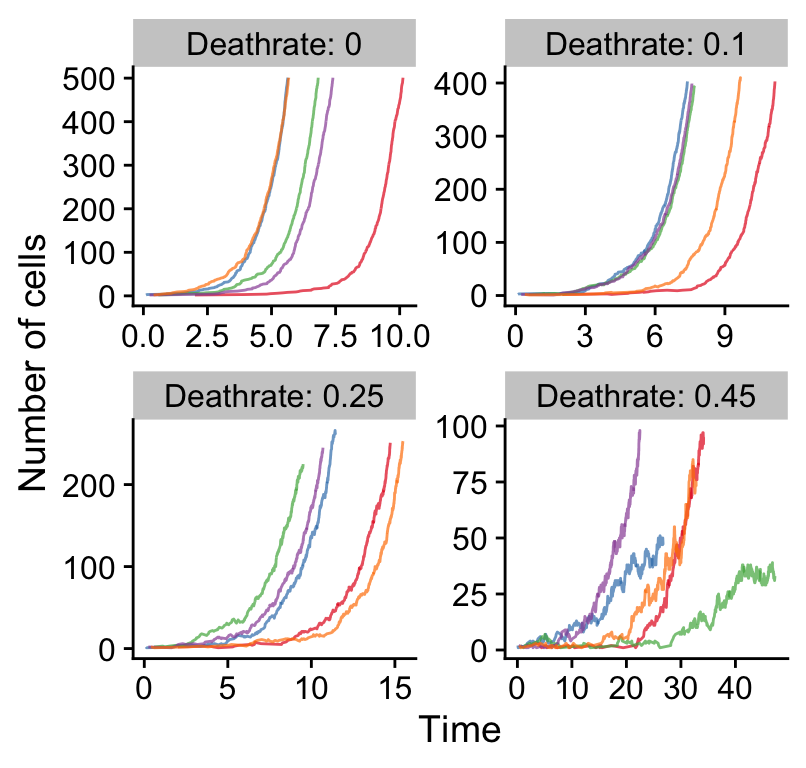
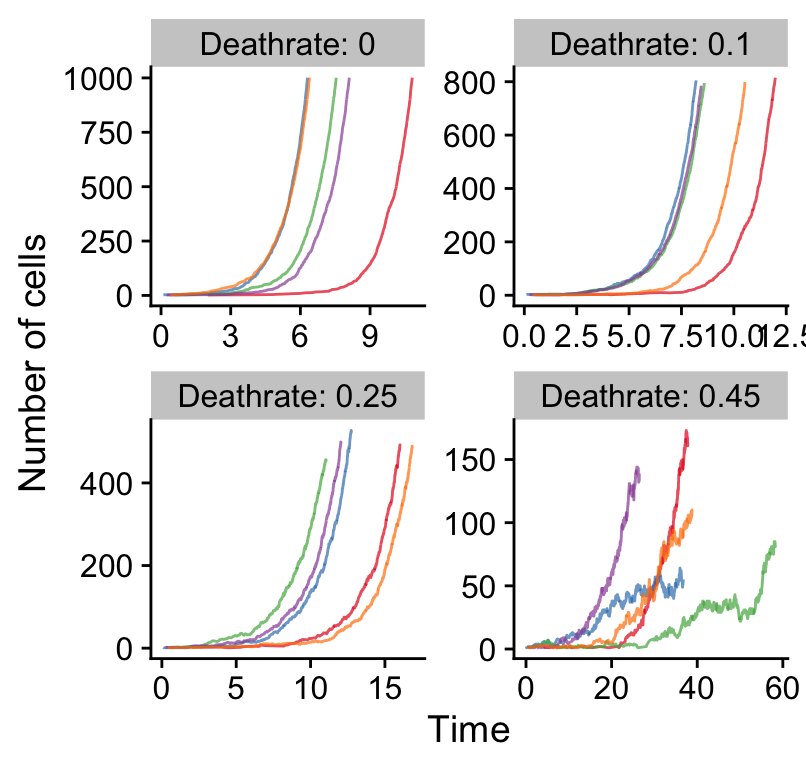
Updated vignettes.

diff --git a/docs/articles/time_series.html b/docs/articles/time_series.html
@@ -110,50 +110,59 @@
 <a class="sourceLine" id="cb1-19" data-line-number="19"><span class="co">#&gt;     intersect, setdiff, setequal, union</span></a>
 <a class="sourceLine" id="cb1-20" data-line-number="20"><span class="kw"><a href="https://ggplot2.tidyverse.org/reference/theme_get.html">theme_set</a></span>(<span class="kw"><a href="https://rdrr.io/pkg/cowplot/man/theme_cowplot.html">theme_cowplot</a></span>())</a></code></pre></div>
 <div class="sourceCode" id="cb2"><pre class="sourceCode r"><code class="sourceCode r"><a class="sourceLine" id="cb2-1" data-line-number="1"></a>
-<a class="sourceLine" id="cb2-2" data-line-number="2"><span class="co"># </span></a>
-<a class="sourceLine" id="cb2-3" data-line-number="3">n_reactions =<span class="st"> </span><span class="dv">1</span><span class="op">:</span><span class="dv">500</span></a>
-<a class="sourceLine" id="cb2-4" data-line-number="4">seeds =<span class="st"> </span><span class="dv">1</span><span class="op">:</span><span class="dv">5</span></a>
-<a class="sourceLine" id="cb2-5" data-line-number="5">deathrates =<span class="st"> </span><span class="kw"><a href="https://rdrr.io/r/base/c.html">c</a></span>(<span class="dv">0</span>, <span class="fl">0.1</span>, <span class="fl">0.25</span>, <span class="fl">0.45</span>)</a>
-<a class="sourceLine" id="cb2-6" data-line-number="6"> </a>
-<a class="sourceLine" id="cb2-7" data-line-number="7">params =<span class="kw"><a href="https://rdrr.io/r/base/list.html">list</a></span>(<span class="dt">birthrates=</span><span class="dv">1</span>, <span class="co"># neutral tumour</span></a>
-<a class="sourceLine" id="cb2-8" data-line-number="8">             <span class="dt">clone_start_times=</span><span class="dv">0</span>, </a>
-<a class="sourceLine" id="cb2-9" data-line-number="9">             <span class="dt">mutation_rate=</span><span class="dv">0</span>, </a>
-<a class="sourceLine" id="cb2-10" data-line-number="10">             <span class="dt">fathers=</span><span class="dv">0</span>)</a>
-<a class="sourceLine" id="cb2-11" data-line-number="11"></a>
-<a class="sourceLine" id="cb2-12" data-line-number="12"></a>
-<a class="sourceLine" id="cb2-13" data-line-number="13"><span class="co"># create all simulations:</span></a>
-<a class="sourceLine" id="cb2-14" data-line-number="14">all_results =<span class="st"> </span><span class="ot">NULL</span></a>
+<a class="sourceLine" id="cb2-2" data-line-number="2"><span class="co"># fixed parameters, a neutral tumour:</span></a>
+<a class="sourceLine" id="cb2-3" data-line-number="3">fixed_clone_params =<span class="st"> </span><span class="kw"><a href="https://rdrr.io/r/base/data.frame.html">data.frame</a></span>(</a>
+<a class="sourceLine" id="cb2-4" data-line-number="4">  <span class="dt">birthrate =</span> <span class="dv">1</span>,</a>
+<a class="sourceLine" id="cb2-5" data-line-number="5">  <span class="dt">mutationrate =</span> <span class="dv">0</span>,</a>
+<a class="sourceLine" id="cb2-6" data-line-number="6">  <span class="dt">start_time =</span> <span class="dv">0</span>,</a>
+<a class="sourceLine" id="cb2-7" data-line-number="7">  <span class="dt">father =</span> <span class="dv">0</span></a>
+<a class="sourceLine" id="cb2-8" data-line-number="8">)</a>
+<a class="sourceLine" id="cb2-9" data-line-number="9"></a>
+<a class="sourceLine" id="cb2-10" data-line-number="10"><span class="co"># varied parameters:</span></a>
+<a class="sourceLine" id="cb2-11" data-line-number="11">n_reactions =<span class="st"> </span><span class="dv">1</span><span class="op">:</span><span class="dv">1000</span></a>
+<a class="sourceLine" id="cb2-12" data-line-number="12">seeds =<span class="st"> </span><span class="dv">1</span><span class="op">:</span><span class="dv">5</span></a>
+<a class="sourceLine" id="cb2-13" data-line-number="13">deathrates =<span class="st"> </span><span class="kw"><a href="https://rdrr.io/r/base/c.html">c</a></span>(<span class="dv">0</span>, <span class="fl">0.1</span>, <span class="fl">0.25</span>, <span class="fl">0.45</span>)</a>
+<a class="sourceLine" id="cb2-14" data-line-number="14"> </a>
 <a class="sourceLine" id="cb2-15" data-line-number="15"></a>
-<a class="sourceLine" id="cb2-16" data-line-number="16"><span class="cf">for</span> (dr <span class="cf">in</span> deathrates) {</a>
-<a class="sourceLine" id="cb2-17" data-line-number="17">  <span class="cf">for</span> (n <span class="cf">in</span> n_reactions) {</a>
-<a class="sourceLine" id="cb2-18" data-line-number="18">    <span class="cf">for</span> (s <span class="cf">in</span> seeds) {</a>
-<a class="sourceLine" id="cb2-19" data-line-number="19"></a>
-<a class="sourceLine" id="cb2-20" data-line-number="20">      this_params =<span class="st"> </span><span class="kw"><a href="https://rdrr.io/r/base/c.html">c</a></span>(params, <span class="dt">simulation_end_time=</span>n, <span class="dt">seed=</span>s, <span class="dt">deathrates=</span>dr)</a>
-<a class="sourceLine" id="cb2-21" data-line-number="21">      this_simulation =<span class="st"> </span><span class="kw"><a href="https://rdrr.io/r/base/do.call.html">do.call</a></span>(simulateTumour, this_params)</a>
-<a class="sourceLine" id="cb2-22" data-line-number="22"></a>
-<a class="sourceLine" id="cb2-23" data-line-number="23">      result_this_simulation =</a>
-<a class="sourceLine" id="cb2-24" data-line-number="24"><span class="st">       </span><span class="kw"><a href="https://rdrr.io/r/base/data.frame.html">data.frame</a></span>(</a>
-<a class="sourceLine" id="cb2-25" data-line-number="25">         <span class="dt">reactions=</span>this_simulation<span class="op">$</span>simulation_data[<span class="st">"reactions"</span>],</a>
-<a class="sourceLine" id="cb2-26" data-line-number="26">          <span class="dt">t=</span>this_simulation<span class="op">$</span>simulation_data[<span class="st">"time"</span>],</a>
-<a class="sourceLine" id="cb2-27" data-line-number="27">          <span class="dt">cells=</span><span class="kw"><a href="https://rdrr.io/r/base/sum.html">sum</a></span>(this_simulation<span class="op">$</span>cell_numbers),</a>
-<a class="sourceLine" id="cb2-28" data-line-number="28">          <span class="dt">seed=</span>s,</a>
-<a class="sourceLine" id="cb2-29" data-line-number="29">          <span class="dt">dr=</span>dr</a>
-<a class="sourceLine" id="cb2-30" data-line-number="30">      )</a>
-<a class="sourceLine" id="cb2-31" data-line-number="31"></a>
-<a class="sourceLine" id="cb2-32" data-line-number="32">      all_results =<span class="st"> </span><span class="kw"><a href="https://rdrr.io/r/base/cbind.html">rbind</a></span>(all_results, result_this_simulation)</a>
-<a class="sourceLine" id="cb2-33" data-line-number="33">    }</a>
-<a class="sourceLine" id="cb2-34" data-line-number="34">  }</a>
-<a class="sourceLine" id="cb2-35" data-line-number="35">}</a>
-<a class="sourceLine" id="cb2-36" data-line-number="36"></a>
-<a class="sourceLine" id="cb2-37" data-line-number="37"></a>
-<a class="sourceLine" id="cb2-38" data-line-number="38">all_results <span class="op">%&gt;%</span><span class="st"> </span></a>
-<a class="sourceLine" id="cb2-39" data-line-number="39"><span class="st">  </span><span class="kw"><a href="https://ggplot2.tidyverse.org/reference/ggplot.html">ggplot</a></span>(<span class="kw"><a href="https://ggplot2.tidyverse.org/reference/aes.html">aes</a></span>(<span class="dt">x=</span>t, <span class="dt">y=</span>cells, <span class="dt">group=</span>seed, <span class="dt">color=</span><span class="kw"><a href="https://rdrr.io/r/base/character.html">as.character</a></span>(seed))) <span class="op">+</span><span class="st"> </span></a>
-<a class="sourceLine" id="cb2-40" data-line-number="40"><span class="st">    </span><span class="kw"><a href="https://ggplot2.tidyverse.org/reference/geom_path.html">geom_line</a></span>(<span class="dt">alpha=</span><span class="fl">0.7</span>) <span class="op">+</span><span class="st"> </span></a>
-<a class="sourceLine" id="cb2-41" data-line-number="41"><span class="st">    </span><span class="kw"><a href="https://ggplot2.tidyverse.org/reference/scale_brewer.html">scale_color_brewer</a></span>(<span class="dt">palette=</span><span class="st">"Set1"</span>) <span class="op">+</span><span class="st"> </span></a>
-<a class="sourceLine" id="cb2-42" data-line-number="42"><span class="st">    </span><span class="kw"><a href="https://ggplot2.tidyverse.org/reference/labs.html">xlab</a></span>(<span class="st">"Time"</span>) <span class="op">+</span><span class="st"> </span></a>
-<a class="sourceLine" id="cb2-43" data-line-number="43"><span class="st">    </span><span class="kw"><a href="https://ggplot2.tidyverse.org/reference/labs.html">ylab</a></span>(<span class="st">"Number of cells"</span>) <span class="op">+</span><span class="st"> </span></a>
-<a class="sourceLine" id="cb2-44" data-line-number="44"><span class="st">    </span><span class="kw"><a href="https://ggplot2.tidyverse.org/reference/guides.html">guides</a></span>(<span class="dt">color=</span><span class="ot">FALSE</span>) <span class="op">+</span></a>
-<a class="sourceLine" id="cb2-45" data-line-number="45"><span class="st">    </span><span class="kw"><a href="https://ggplot2.tidyverse.org/reference/facet_wrap.html">facet_wrap</a></span>(<span class="op">~</span><span class="kw"><a href="https://rdrr.io/r/base/paste.html">paste0</a></span>(<span class="st">"Deathrate: "</span>, dr), <span class="dt">ncol=</span><span class="dv">2</span>, <span class="dt">scales=</span><span class="st">"free"</span>)</a></code></pre></div>
+<a class="sourceLine" id="cb2-16" data-line-number="16"></a>
+<a class="sourceLine" id="cb2-17" data-line-number="17"></a>
+<a class="sourceLine" id="cb2-18" data-line-number="18"><span class="co"># create all simulations:</span></a>
+<a class="sourceLine" id="cb2-19" data-line-number="19">all_results =<span class="st"> </span><span class="ot">NULL</span></a>
+<a class="sourceLine" id="cb2-20" data-line-number="20"></a>
+<a class="sourceLine" id="cb2-21" data-line-number="21"><span class="cf">for</span> (dr <span class="cf">in</span> deathrates) {</a>
+<a class="sourceLine" id="cb2-22" data-line-number="22">  <span class="cf">for</span> (s <span class="cf">in</span> seeds) {</a>
+<a class="sourceLine" id="cb2-23" data-line-number="23">    </a>
+<a class="sourceLine" id="cb2-24" data-line-number="24">    this_params =<span class="st"> </span>fixed_clone_params <span class="op">%&gt;%</span><span class="st"> </span><span class="kw"><a href="https://rdrr.io/pkg/dplyr/man/mutate.html">mutate</a></span>(<span class="dt">deathrate=</span>dr)</a>
+<a class="sourceLine" id="cb2-25" data-line-number="25">    sim =<span class="st"> </span><span class="kw">new</span>(TEMULATOR_object, this_params, <span class="dv">0</span>, <span class="dv">100</span>, s)</a>
+<a class="sourceLine" id="cb2-26" data-line-number="26"></a>
+<a class="sourceLine" id="cb2-27" data-line-number="27">    <span class="cf">for</span> (n <span class="cf">in</span> n_reactions) {</a>
+<a class="sourceLine" id="cb2-28" data-line-number="28"></a>
+<a class="sourceLine" id="cb2-29" data-line-number="29">      sim<span class="op">$</span>end_time =<span class="st"> </span>n</a>
+<a class="sourceLine" id="cb2-30" data-line-number="30">      sim<span class="op">$</span><span class="kw">run</span>(<span class="ot">FALSE</span>) <span class="co"># play forward, not verbose</span></a>
+<a class="sourceLine" id="cb2-31" data-line-number="31">      </a>
+<a class="sourceLine" id="cb2-32" data-line-number="32">      result_this_simulation =</a>
+<a class="sourceLine" id="cb2-33" data-line-number="33"><span class="st">        </span><span class="kw"><a href="https://rdrr.io/r/base/data.frame.html">data.frame</a></span>(</a>
+<a class="sourceLine" id="cb2-34" data-line-number="34">          <span class="dt">reactions=</span>sim<span class="op">$</span>n_reactions,</a>
+<a class="sourceLine" id="cb2-35" data-line-number="35">          <span class="dt">t=</span>sim<span class="op">$</span>simulation_time,</a>
+<a class="sourceLine" id="cb2-36" data-line-number="36">          <span class="dt">cells=</span><span class="kw"><a href="https://rdrr.io/r/base/sum.html">sum</a></span>(sim<span class="op">$</span>cell_counts),</a>
+<a class="sourceLine" id="cb2-37" data-line-number="37">          <span class="dt">seed=</span>s,</a>
+<a class="sourceLine" id="cb2-38" data-line-number="38">          <span class="dt">dr=</span>dr</a>
+<a class="sourceLine" id="cb2-39" data-line-number="39">        )</a>
+<a class="sourceLine" id="cb2-40" data-line-number="40"></a>
+<a class="sourceLine" id="cb2-41" data-line-number="41">      all_results =<span class="st"> </span><span class="kw"><a href="https://rdrr.io/r/base/cbind.html">rbind</a></span>(all_results, result_this_simulation)</a>
+<a class="sourceLine" id="cb2-42" data-line-number="42">    }</a>
+<a class="sourceLine" id="cb2-43" data-line-number="43">  }</a>
+<a class="sourceLine" id="cb2-44" data-line-number="44">}</a>
+<a class="sourceLine" id="cb2-45" data-line-number="45"></a>
+<a class="sourceLine" id="cb2-46" data-line-number="46"></a>
+<a class="sourceLine" id="cb2-47" data-line-number="47">all_results <span class="op">%&gt;%</span><span class="st"> </span></a>
+<a class="sourceLine" id="cb2-48" data-line-number="48"><span class="st">  </span><span class="kw"><a href="https://ggplot2.tidyverse.org/reference/ggplot.html">ggplot</a></span>(<span class="kw"><a href="https://ggplot2.tidyverse.org/reference/aes.html">aes</a></span>(<span class="dt">x=</span>t, <span class="dt">y=</span>cells, <span class="dt">group=</span>seed, <span class="dt">color=</span><span class="kw"><a href="https://rdrr.io/r/base/character.html">as.character</a></span>(seed))) <span class="op">+</span><span class="st"> </span></a>
+<a class="sourceLine" id="cb2-49" data-line-number="49"><span class="st">    </span><span class="kw"><a href="https://ggplot2.tidyverse.org/reference/geom_path.html">geom_line</a></span>(<span class="dt">alpha=</span><span class="fl">0.7</span>) <span class="op">+</span><span class="st"> </span></a>
+<a class="sourceLine" id="cb2-50" data-line-number="50"><span class="st">    </span><span class="kw"><a href="https://ggplot2.tidyverse.org/reference/scale_brewer.html">scale_color_brewer</a></span>(<span class="dt">palette=</span><span class="st">"Set1"</span>) <span class="op">+</span><span class="st"> </span></a>
+<a class="sourceLine" id="cb2-51" data-line-number="51"><span class="st">    </span><span class="kw"><a href="https://ggplot2.tidyverse.org/reference/labs.html">xlab</a></span>(<span class="st">"Time"</span>) <span class="op">+</span><span class="st"> </span></a>
+<a class="sourceLine" id="cb2-52" data-line-number="52"><span class="st">    </span><span class="kw"><a href="https://ggplot2.tidyverse.org/reference/labs.html">ylab</a></span>(<span class="st">"Number of cells"</span>) <span class="op">+</span><span class="st"> </span></a>
+<a class="sourceLine" id="cb2-53" data-line-number="53"><span class="st">    </span><span class="kw"><a href="https://ggplot2.tidyverse.org/reference/guides.html">guides</a></span>(<span class="dt">color=</span><span class="ot">FALSE</span>) <span class="op">+</span></a>
+<a class="sourceLine" id="cb2-54" data-line-number="54"><span class="st">    </span><span class="kw"><a href="https://ggplot2.tidyverse.org/reference/facet_wrap.html">facet_wrap</a></span>(<span class="op">~</span><span class="kw"><a href="https://rdrr.io/r/base/paste.html">paste0</a></span>(<span class="st">"Deathrate: "</span>, dr), <span class="dt">ncol=</span><span class="dv">2</span>, <span class="dt">scales=</span><span class="st">"free"</span>)</a></code></pre></div>
 <p><img src="time_series_files/figure-html/time_series-1.png" width="403.2"></p>
   </div>
 

diff --git a/docs/reference/TEMULATOR_object.html b/docs/reference/TEMULATOR_object.html
@@ -6,7 +6,7 @@
 <meta http-equiv="X-UA-Compatible" content="IE=edge">
 <meta name="viewport" content="width=device-width, initial-scale=1.0">
 
-<title>Main function used to produce a simulation — simulateTumour • TEMULATOR</title>
+<title>A TEMULATER simulation — TEMULATOR_object • TEMULATOR</title>
 
 <!-- favicons -->
 <link rel="icon" type="image/png" sizes="16x16" href="../favicon-16x16.png">
@@ -42,8 +42,8 @@
 
 
 
-<meta property="og:title" content="Main function used to produce a simulation — simulateTumour" />
-<meta property="og:description" content="Main function used to produce a simulation" />
+<meta property="og:title" content="A TEMULATER simulation — TEMULATOR_object" />
+<meta property="og:description" content="Type the name of the class to see its methods" />
 <meta property="og:image" content="/logo.png" />
 <meta name="twitter:card" content="summary" />
 
@@ -120,101 +120,46 @@
 <div class="row">
   <div class="col-md-9 contents">
     <div class="page-header">
-    <h1>Main function used to produce a simulation</h1>
+    <h1>A TEMULATER simulation</h1>
     
-    <div class="hidden name"><code>simulateTumour.Rd</code></div>
+    <div class="hidden name"><code>TEMULATOR_object.Rd</code></div>
     </div>
 
     <div class="ref-description">
-    <p>Main function used to produce a simulation</p>
+    <p>Type the name of the class to see its methods</p>
     </div>
 
-    <pre class="usage"><span class='fu'>simulateTumour</span>(
-  <span class='kw'>birthrates</span> <span class='kw'>=</span> <span class='fu'><a href='https://rdrr.io/r/base/c.html'>c</a></span>(<span class='fl'>1</span>, <span class='fl'>1</span>),
-  <span class='kw'>deathrates</span> <span class='kw'>=</span> <span class='fu'><a href='https://rdrr.io/r/base/c.html'>c</a></span>(<span class='fl'>0.2</span>, <span class='fl'>0.2</span>),
-  <span class='kw'>mutation_rates</span> <span class='kw'>=</span> <span class='fu'><a href='https://rdrr.io/r/base/c.html'>c</a></span>(<span class='fl'>16</span>, <span class='fl'>16</span>),
-  <span class='kw'>clone_start_times</span> <span class='kw'>=</span> <span class='fu'><a href='https://rdrr.io/r/base/c.html'>c</a></span>(<span class='fl'>0</span>, <span class='fl'>256</span>),
-  <span class='kw'>fathers</span> <span class='kw'>=</span> <span class='fu'><a href='https://rdrr.io/r/base/c.html'>c</a></span>(<span class='fl'>0</span>, <span class='fl'>0</span>),
-  <span class='kw'>simulation_end_time</span> <span class='kw'>=</span> <span class='fl'>1048576</span>,
-  <span class='kw'>seed</span> <span class='kw'>=</span> <span class='fl'>42</span>,
-  <span class='kw'>number_clonal_mutations</span> <span class='kw'>=</span> <span class='fl'>100</span>,
-  <span class='kw'>purity</span> <span class='kw'>=</span> <span class='fl'>1</span>,
-  <span class='kw'>min_vaf</span> <span class='kw'>=</span> <span class='fl'>0.01</span>,
-  <span class='kw'>depth</span> <span class='kw'>=</span> <span class='fl'>100</span>,
-  <span class='kw'>depth_model</span> <span class='kw'>=</span> <span class='fl'>2</span>,
-  <span class='kw'>verbose</span> <span class='kw'>=</span> <span class='fl'>FALSE</span>
-)</pre>
 
-    <h2 class="hasAnchor" id="arguments"><a class="anchor" href="#arguments"></a>Arguments</h2>
-    <table class="ref-arguments">
-    <colgroup><col class="name" /><col class="desc" /></colgroup>
-    <tr>
-      <th>birthrates</th>
-      <td><p>Birth rate(s) of subpopulations</p></td>
-    </tr>
-    <tr>
-      <th>deathrates</th>
-      <td><p>Death rate(s) of subpopulations</p></td>
-    </tr>
-    <tr>
-      <th>mutation_rates</th>
-      <td><p>Mutation rate(s) per division</p></td>
-    </tr>
-    <tr>
-      <th>clone_start_times</th>
-      <td><p>Timepoint (in number of reaction) a subpopulation is introduced</p></td>
-    </tr>
-    <tr>
-      <th>fathers</th>
-      <td><p>Subpopulation (0 based) a subpopulations originate from</p></td>
-    </tr>
-    <tr>
-      <th>simulation_end_time</th>
-      <td><p>Number of reactions performed</p></td>
-    </tr>
-    <tr>
-      <th>seed</th>
-      <td><p>Simulation seed</p></td>
-    </tr>
-    <tr>
-      <th>number_clonal_mutations</th>
-      <td><p>Number of clonal variants</p></td>
-    </tr>
-    <tr>
-      <th>purity</th>
-      <td><p>Assumed purity of the tumour</p></td>
-    </tr>
-    <tr>
-      <th>min_vaf</th>
-      <td><p>Minimum VAF to report</p></td>
-    </tr>
-    <tr>
-      <th>depth</th>
-      <td><p>Sequencing depth</p></td>
-    </tr>
-    <tr>
-      <th>depth_model</th>
-      <td><p>Number specificing the distribution of the sequencing depth to use (1:  poisson, 2: overdispersed beta binomial (default), 3: fixed)</p></td>
-    </tr>
-    <tr>
-      <th>verbose</th>
-      <td><p>Print progress?</p></td>
-    </tr>
-    </table>
 
-    <h2 class="hasAnchor" id="value"><a class="anchor" href="#value"></a>Value</h2>
+    <h2 class="hasAnchor" id="fields"><a class="anchor" href="#fields"></a>Fields</h2>
 
-    <p>List containing i) properties of the subclones ('clone_parameters'), ii) the main simulation parameters ('simulation_parameters'), iii) the sequencing simulation parameters ('sequencing_parameters'), iv) the final population structure ('cell_numbers'), and v) the simulated mutation data.</p>
+    
 
-    <h2 class="hasAnchor" id="examples"><a class="anchor" href="#examples"></a>Examples</h2>
-    <pre class="examples"><div class='input'><span class='fu'>simulateTumour</span>()</div></pre>
+<dl class='dl-horizontal'>
+<dt><code>print</code></dt><dd><p>Print the object</p></dd>
+
+<dt><code>print_cell_types</code></dt><dd><p>Print contained cell types</p></dd>
+
+<dt><code>run</code></dt><dd><p>Start or restart the simulation <ul>
+<li><p>Parameter: verbose - bool, Flag indicating if progress should be printed.</p></li>
+<li><p>Returns: bool, Indicating success.</p></li>
+</ul></p></dd>
+
+<dt><code>sample</code></dt><dd><p>Sample mutations from the population <ul>
+<li><p>Parameter: min_vaf - double, Minimum VAF reported.</p></li>
+<li><p>Parameter: purity - double, Assumed purity of the tumour.</p></li>
+<li><p>Parameter: depth - double, Sequencing depth.</p></li>
+<li><p>Parameter: depth_model - int,  Distribution of the sequencing depth (1: poisson, 2: overdispersed beta binomial (default), 3: fixed).</p></li>
+<li><p>Returns: data.frame containing mutation information.</p></li>
+</ul></p></dd>
+
+</dl>
+
   </div>
   <div class="col-md-3 hidden-xs hidden-sm" id="sidebar">
     <h2>Contents</h2>
     <ul class="nav nav-pills nav-stacked">
-      <li><a href="#arguments">Arguments</a></li>
-      <li><a href="#value">Value</a></li>
-      <li><a href="#examples">Examples</a></li>
+      <li><a href="#fields">Fields</a></li>
     </ul>
 
   </div>

diff --git a/docs/index.html b/docs/index.html
@@ -5,7 +5,7 @@
 <meta charset="utf-8">
 <meta http-equiv="X-UA-Compatible" content="IE=edge">
 <meta name="viewport" content="width=device-width, initial-scale=1.0">
-<title>Creating of synthetic tumour sequencing data  • TEMULATOR</title>
+<title>Creation of synthetic tumour sequencing data  • TEMULATOR</title>
 <!-- favicons --><link rel="icon" type="image/png" sizes="16x16" href="favicon-16x16.png">
 <link rel="icon" type="image/png" sizes="32x32" href="favicon-32x32.png">
 <link rel="apple-touch-icon" type="image/png" sizes="180x180" href="apple-touch-icon.png">
@@ -16,7 +16,7 @@
 <script src="https://cdnjs.cloudflare.com/ajax/libs/twitter-bootstrap/3.3.7/js/bootstrap.min.js" integrity="sha256-U5ZEeKfGNOja007MMD3YBI0A3OSZOQbeG6z2f2Y0hu8=" crossorigin="anonymous"></script><!-- Font Awesome icons --><link rel="stylesheet" href="https://cdnjs.cloudflare.com/ajax/libs/font-awesome/5.7.1/css/all.min.css" integrity="sha256-nAmazAk6vS34Xqo0BSrTb+abbtFlgsFK7NKSi6o7Y78=" crossorigin="anonymous">
 <link rel="stylesheet" href="https://cdnjs.cloudflare.com/ajax/libs/font-awesome/5.7.1/css/v4-shims.min.css" integrity="sha256-6qHlizsOWFskGlwVOKuns+D1nB6ssZrHQrNj1wGplHc=" crossorigin="anonymous">
 <!-- clipboard.js --><script src="https://cdnjs.cloudflare.com/ajax/libs/clipboard.js/2.0.4/clipboard.min.js" integrity="sha256-FiZwavyI2V6+EXO1U+xzLG3IKldpiTFf3153ea9zikQ=" crossorigin="anonymous"></script><!-- headroom.js --><script src="https://cdnjs.cloudflare.com/ajax/libs/headroom/0.9.4/headroom.min.js" integrity="sha256-DJFC1kqIhelURkuza0AvYal5RxMtpzLjFhsnVIeuk+U=" crossorigin="anonymous"></script><script src="https://cdnjs.cloudflare.com/ajax/libs/headroom/0.9.4/jQuery.headroom.min.js" integrity="sha256-ZX/yNShbjqsohH1k95liqY9Gd8uOiE1S4vZc+9KQ1K4=" crossorigin="anonymous"></script><!-- pkgdown --><link href="pkgdown.css" rel="stylesheet">
-<script src="pkgdown.js"></script><meta property="og:title" content="Creating of synthetic tumour sequencing data ">
+<script src="pkgdown.js"></script><meta property="og:title" content="Creation of synthetic tumour sequencing data ">
 <meta property="og:description" content="Simulates a tumour as a stochastic branching process and generates synthetic next-generation sequencing data from the resulting population.">
 <meta property="og:image" content="/logo.png">
 <meta name="twitter:card" content="summary">

diff --git a/docs/reference/index.html b/docs/reference/index.html
@@ -140,6 +140,12 @@
       <tr>
         
         <td>
+          <p><code><a href="TEMULATOR_object.html">TEMULATOR_object</a></code> </p>
+        </td>
+        <td><p>A TEMULATER simulation</p></td>
+      </tr><tr>
+        
+        <td>
           <p><code><a href="simulateTumour.html">simulateTumour()</a></code> </p>
         </td>
         <td><p>Main function used to produce a simulation</p></td>
